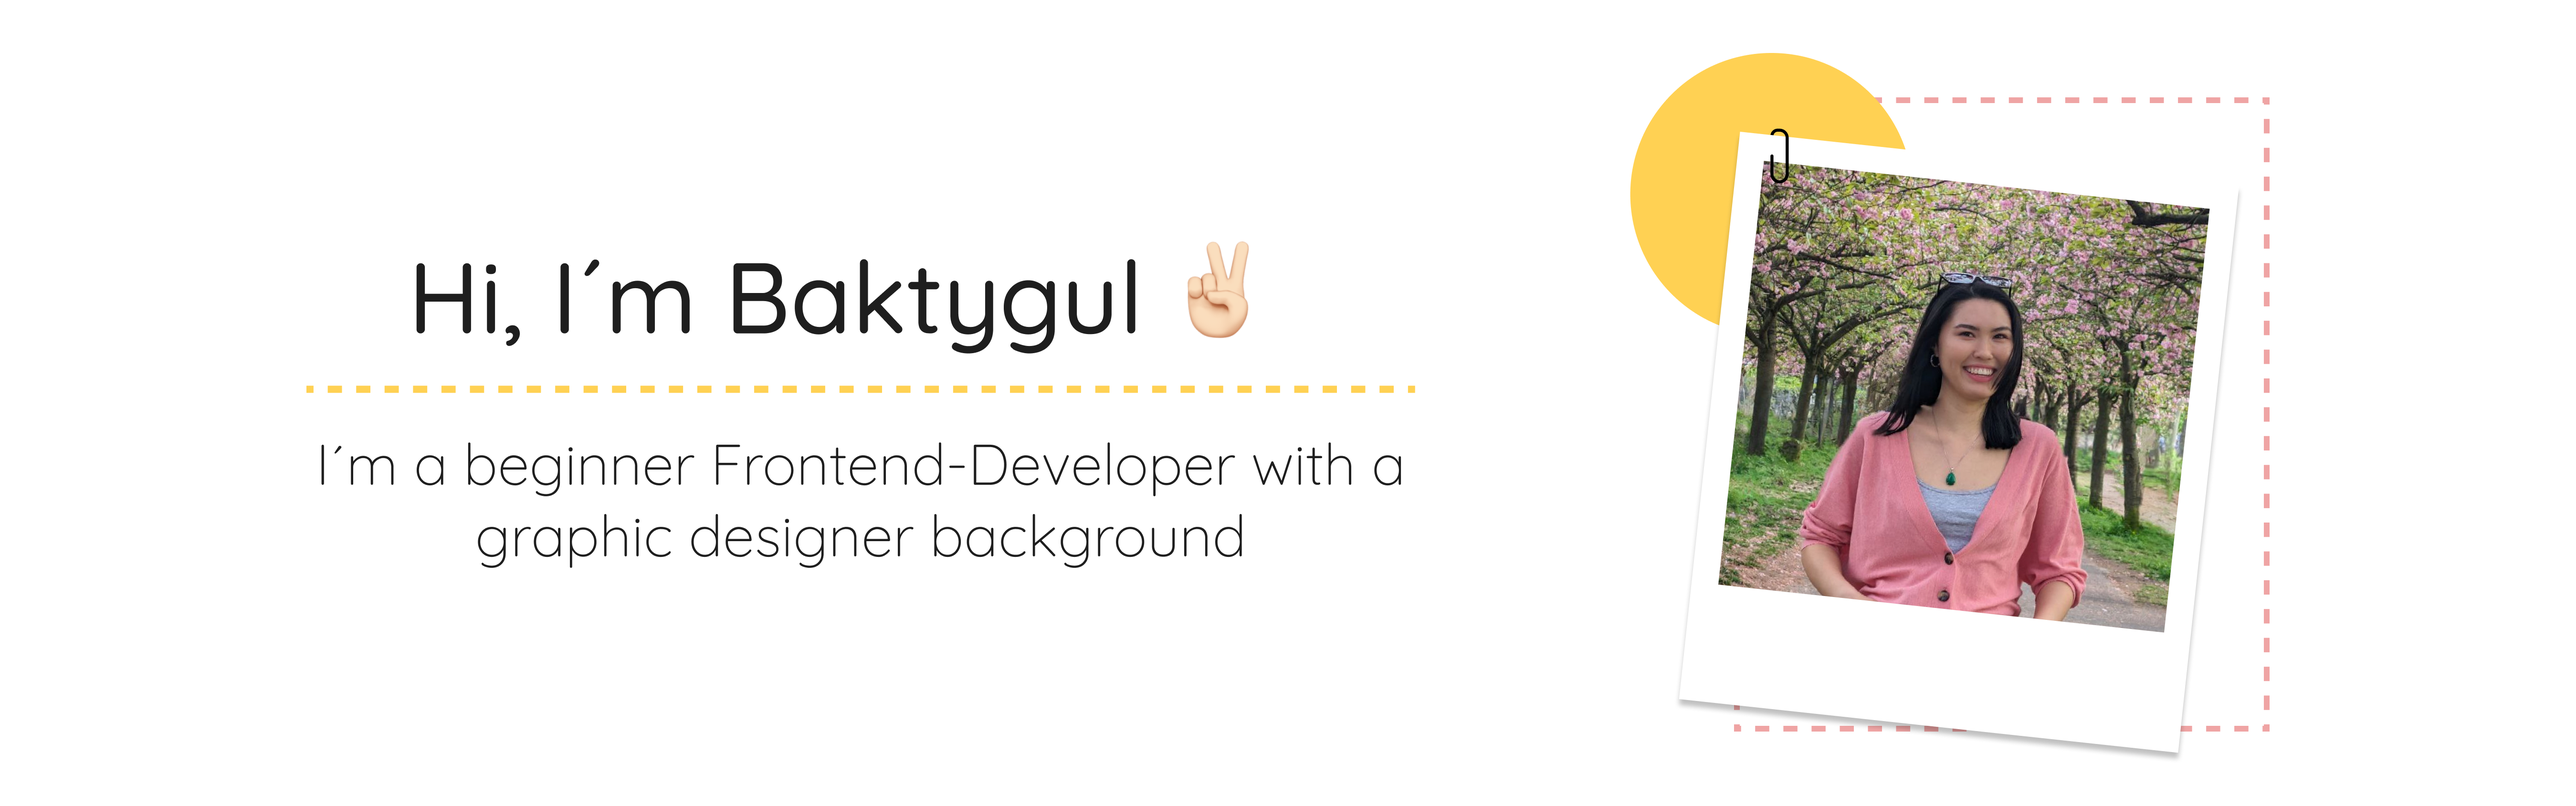
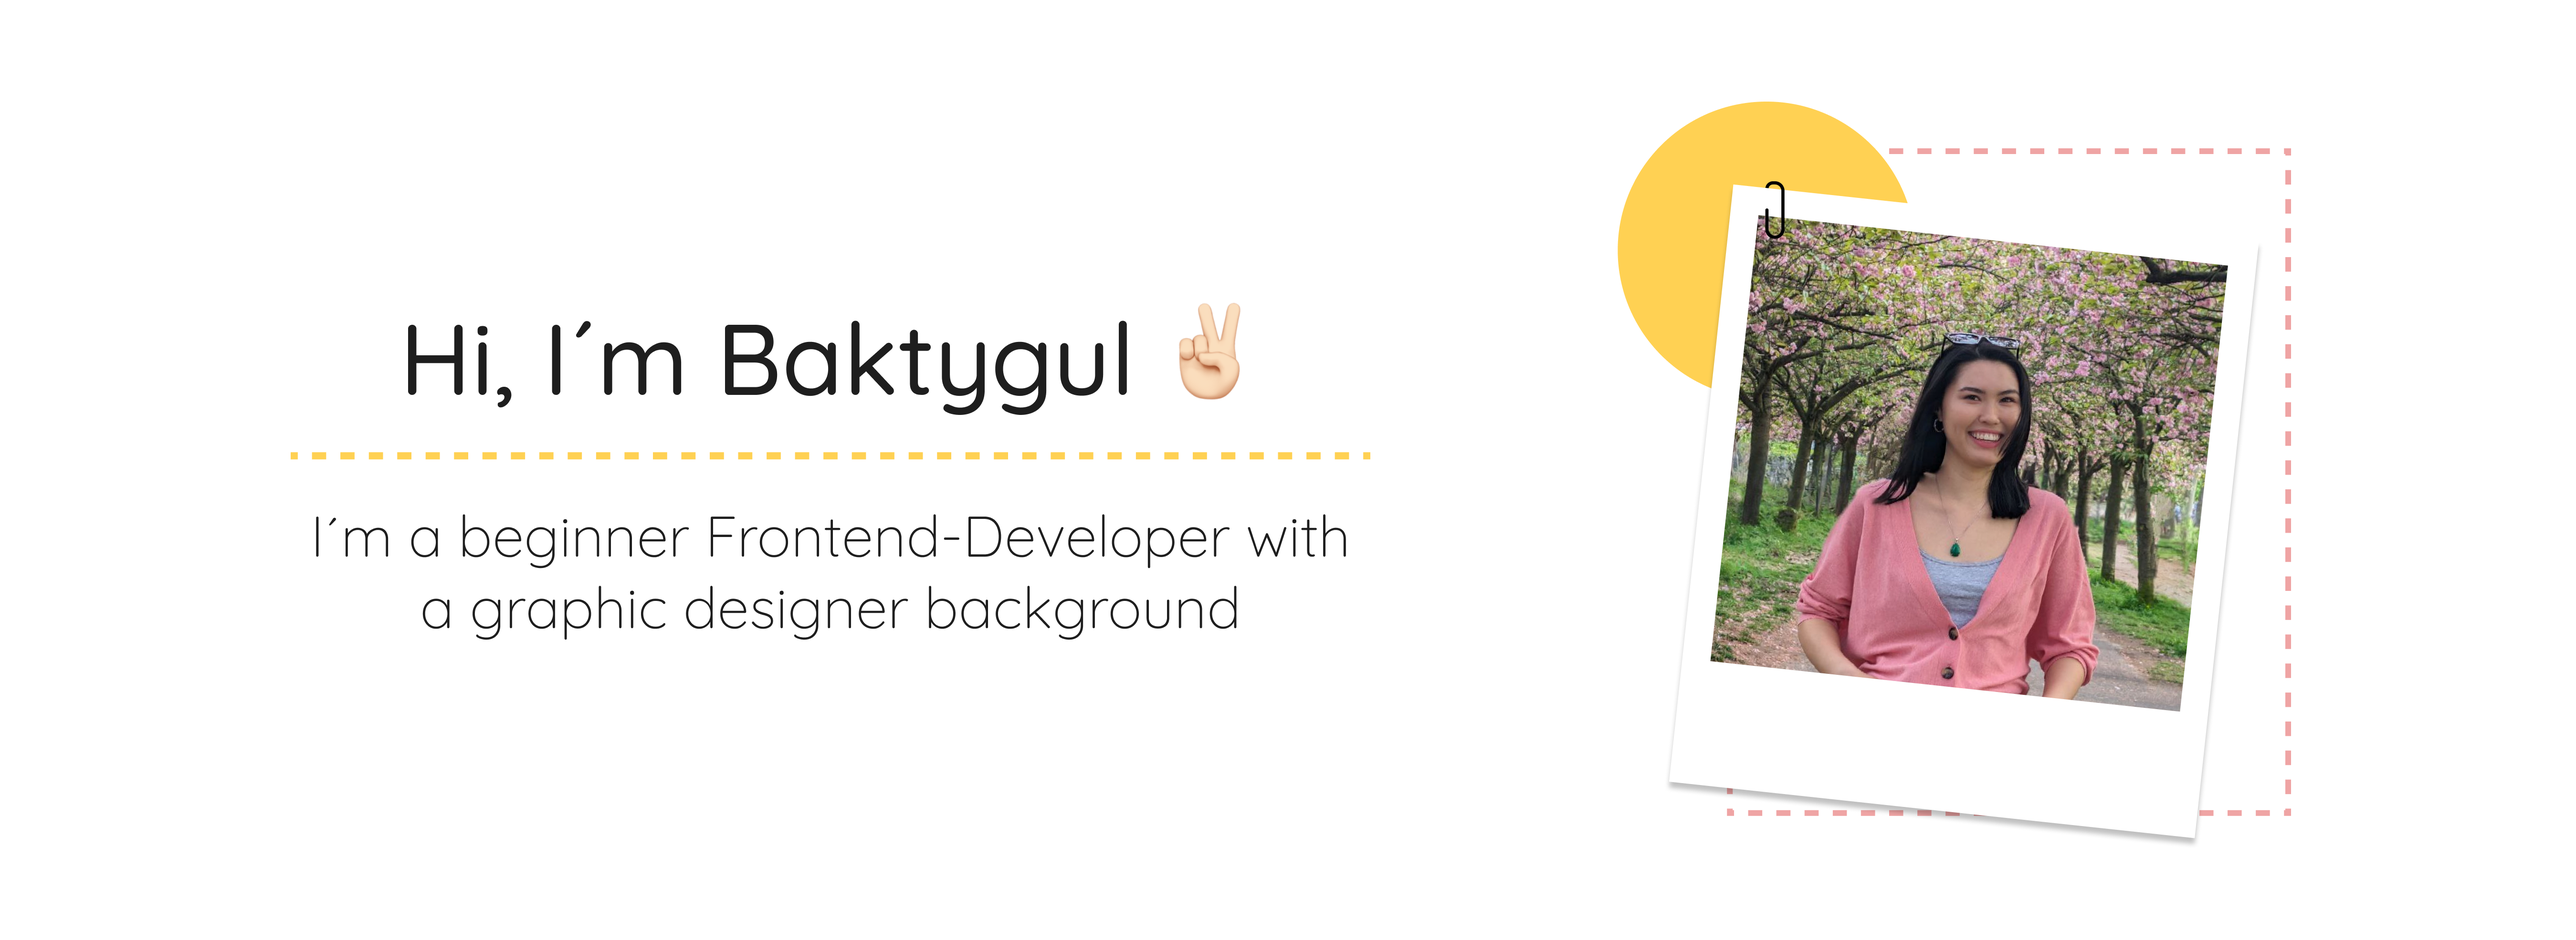
add font

diff --git a/README.md b/README.md
@@ -1,6 +1,6 @@
 ![Hi!](hi.png)
 
-**Hello people**
+<span style="font-family:Quicksand-VariableFont_wght.ttf">I´m currently learning **`HTML`** **`CSS`** and on the way to learning **`Javascript`** at [3pc](https://3pc.de/)</span>
 
 <!--
 **MBaktygul/MBaktygul** is a ✨ _special_ ✨ repository because its `README.md` (this file) appears on your GitHub profile.
